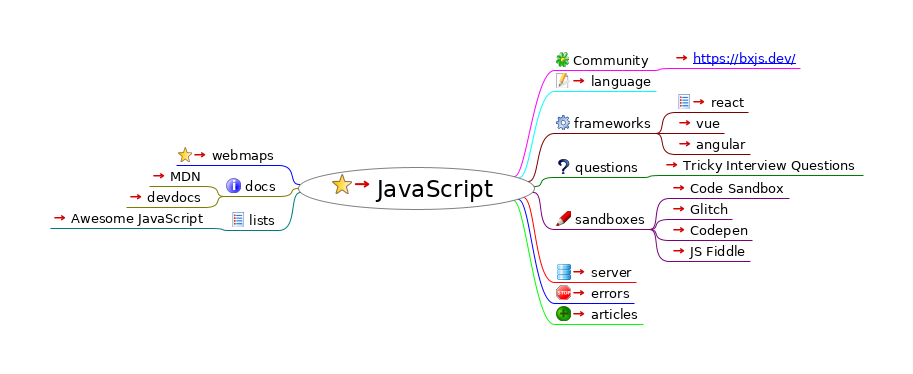
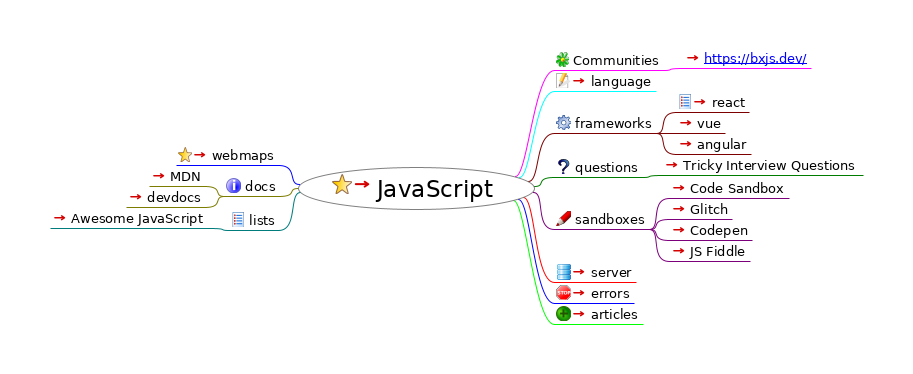
add cli tools

diff --git a/index.html b/index.html
@@ -1,5 +1,5 @@
 <?xml version="1.0" encoding="UTF-8"?><!DOCTYPE html PUBLIC "-//W3C//DTD XHTML 1.1//EN" "http://www.w3.org/TR/xhtml11/DTD/xhtml11.dtd">
-<html xmlns="http://www.w3.org/1999/xhtml"><meta http-equiv="Content-Type" content="text/html; charset=UTF-8" /><!--This file has been created with processhtml.sh--><head><title>JavaScript</title><link rel="stylesheet" href="index.html_files/freeplane2html.css" type="text/css" /><meta name="generator" content="Freeplane-XSL Stylesheet (see: http://freeplane-xsl.dev.slash-me.net/ for details)" /><script type="text/javascript" src="index.html_files/freeplane2html.js"> 
+<html xmlns="http://www.w3.org/1999/xhtml"><meta http-equiv="Content-Type" content="text/html; charset=UTF-8" /><!--This file has been created with freeplane2html.xsl--><head><title>JavaScript</title><link rel="stylesheet" href="index.html_files/freeplane2html.css" type="text/css" /><meta name="generator" content="Freeplane-XSL Stylesheet (see: http://freeplane-xsl.dev.slash-me.net/ for details)" /><script type="text/javascript" src="index.html_files/freeplane2html.js"> 
 	</script><script type="text/javascript"><!--
           
                function toggle(id)
@@ -23,33 +23,33 @@
                    };
                };
           
-          --></script></head><body><h1>JavaScript</h1><div style="width:96%;  padding:2%;  margin-bottom:10px;  border: 0px;  text-align:center;  vertical-align:center;"><img src="index.html_files/image.png" style="margin-bottom:10px; &#9;border: 0px; &#9;text-align:center; &#9;vertical-align:center;" alt="Imagemap" usemap="#fm_imagemap" /></div><map name="fm_imagemap" id="fm_imagemap"><area shape="rect" href="../tech/index.html" alt="JavaScript" title="JavaScript" coords="298,167,535,210" />
-<area shape="rect" href="https://github.com/solidpayorg/webmaps/" alt="webmaps" title="webmaps" coords="176,147,279,165" />
+          --></script></head><body><h1>JavaScript</h1><div style="width:96%;  padding:2%;  margin-bottom:10px;  border: 0px;  text-align:center;  vertical-align:center;"><img src="index.html_files/image.png" style="margin-bottom:10px; &#9;border: 0px; &#9;text-align:center; &#9;vertical-align:center;" alt="Imagemap" usemap="#fm_imagemap" /></div><map name="fm_imagemap" id="fm_imagemap"><area shape="rect" href="#FMID_110073400FM" alt="JavaScript" title="JavaScript" coords="298,167,535,210" />
+<area shape="rect" href="#FMID_634574866FM" alt="webmaps" title="webmaps" coords="176,147,279,165" />
 <area shape="rect" href="#FMID_1425964050FM" alt="docs" title="docs" coords="224,178,279,196" />
-<area shape="rect" href="https://developer.mozilla.org/en-US/docs/Web/JavaScript" alt="MDN" title="MDN" coords="149,168,205,186" />
-<area shape="rect" href="https://devdocs.io/javascript/" alt="devdocs" title="devdocs" coords="126,189,205,207" />
+<area shape="rect" href="#FMID_773205118FM" alt="MDN" title="MDN" coords="149,168,205,186" />
+<area shape="rect" href="#FMID_83129282FM" alt="devdocs" title="devdocs" coords="126,189,205,207" />
 <area shape="rect" href="#FMID_829378880FM" alt="lists" title="lists" coords="229,212,279,230" />
-<area shape="rect" href="https://github.com/sorrycc/awesome-javascript" alt="Awesome JavaScript" title="Awesome JavaScript" coords="50,210,210,228" />
-<area shape="rect" href="#FMID_849215328FM" alt="Community" title="Community" coords="554,52,653,70" />
-<area shape="rect" href="https://bxjs.dev/" alt="https://bxjs.dev/" title="https://bxjs.dev/" coords="672,50,800,68" />
-<area shape="rect" href="language.html" alt="language" title="language" coords="554,73,656,91" />
-<area shape="rect" href="#FMID_153818301FM" alt="frameworks" title="frameworks" coords="554,115,656,133" />
-<area shape="rect" href="react/index.html" alt="react" title="react" coords="675,94,748,112" />
-<area shape="rect" href="https://vuejs.org/" alt="vue" title="vue" coords="675,115,724,133" />
-<area shape="rect" href="https://angular.io/" alt="angular" title="angular" coords="675,136,750,154" />
+<area shape="rect" href="#FMID_157748484FM" alt="Awesome JavaScript" title="Awesome JavaScript" coords="50,210,210,228" />
+<area shape="rect" href="#FMID_849215328FM" alt="Communities" title="Communities" coords="554,52,664,70" />
+<area shape="rect" href="#FMID_1384859362FM" alt="https://bxjs.dev/" title="https://bxjs.dev/" coords="683,50,811,68" />
+<area shape="rect" href="#FMID_1566689685FM" alt="language" title="language" coords="554,73,656,91" />
+<area shape="rect" href="#FMID_153818301FM" alt="frameworks" title="frameworks" coords="554,115,657,133" />
+<area shape="rect" href="#FMID_921980201FM" alt="react" title="react" coords="676,94,749,112" />
+<area shape="rect" href="#FMID_850712897FM" alt="vue" title="vue" coords="676,115,725,133" />
+<area shape="rect" href="#FMID_101804111FM" alt="angular" title="angular" coords="676,136,751,154" />
 <area shape="rect" href="#FMID_1450636763FM" alt="questions" title="questions" coords="554,159,643,177" />
-<area shape="rect" href="https://dmitripavlutin.com/simple-but-tricky-javascript-interview-questions/" alt="Tricky Interview Questions" title="Tricky Interview Questions" coords="662,157,863,175" />
+<area shape="rect" href="#FMID_83102648FM" alt="Tricky Interview Questions" title="Tricky Interview Questions" coords="662,157,863,175" />
 <area shape="rect" href="#FMID_1460537766FM" alt="sandboxes" title="sandboxes" coords="554,211,650,229" />
-<area shape="rect" href="https://codesandbox.io/" alt="Code Sandbox" title="Code Sandbox" coords="669,180,789,198" />
-<area shape="rect" href="https://glitch.com/" alt="Glitch" title="Glitch" coords="669,201,732,219" />
-<area shape="rect" href="https://codepen.io/" alt="Codepen" title="Codepen" coords="669,222,752,240" />
-<area shape="rect" href="https://jsfiddle.net/" alt="JS Fiddle" title="JS Fiddle" coords="669,243,750,261" />
-<area shape="rect" href="server/index.html" alt="server" title="server" coords="554,264,636,282" />
-<area shape="rect" href="https://blog.appsignal.com/2019/10/17/javascript-errors-an-exceptional-history.html" alt="errors" title="errors" coords="554,285,634,303" />
-<area shape="rect" href="articles/index.html" alt="articles" title="articles" coords="554,306,643,324" />
+<area shape="rect" href="#FMID_899668548FM" alt="Code Sandbox" title="Code Sandbox" coords="669,180,789,198" />
+<area shape="rect" href="#FMID_1286093091FM" alt="Glitch" title="Glitch" coords="669,201,732,219" />
+<area shape="rect" href="#FMID_942460316FM" alt="Codepen" title="Codepen" coords="669,222,752,240" />
+<area shape="rect" href="#FMID_1150601009FM" alt="JS Fiddle" title="JS Fiddle" coords="669,243,750,261" />
+<area shape="rect" href="#FMID_1516168898FM" alt="server" title="server" coords="554,264,636,282" />
+<area shape="rect" href="#FMID_437549538FM" alt="errors" title="errors" coords="554,285,634,303" />
+<area shape="rect" href="#FMID_51150335FM" alt="articles" title="articles" coords="554,306,643,324" />
 </map>
 
-<div class="node"><img src="index.html_files/hide.png" class="hideshow" alt="hide" onClick="toggle(&quot;N65543&quot;)" id="imgN65543" /><img src="index.html_files/icons/bookmark.svg" alt="bookmark" /> <a id="FMID_110073400FM" /><div class="nodecontent" style="color:#000000;font-size:150%;"><a href="../tech/index.html">JavaScript</a> <a href="../tech/index.html"><img src="index.html_files/ilink.png" alt="User Link" style="border-width:0" /></a></div><div class="content" id="N65543"><div class="node"><img src="index.html_files/leaf.png" class="hideshow" alt="leaf" /><img src="index.html_files/icons/bookmark.svg" alt="bookmark" /> <a id="FMID_634574866FM" /><div class="nodecontent" style="color:#000000;font-size:83%;"><a href="https://github.com/solidpayorg/webmaps/">webmaps</a> <a href="https://github.com/solidpayorg/webmaps/"><img src="index.html_files/ilink.png" alt="User Link" style="border-width:0" /></a></div></div><div class="node"><img src="index.html_files/hide.png" class="hideshow" alt="hide" onClick="toggle(&quot;N66488&quot;)" id="imgN66488" /><img src="index.html_files/icons/info.svg" alt="info" /> <a id="FMID_1425964050FM" /><div class="nodecontent" style="color:#000000;font-size:83%;">docs</div><div class="content" id="N66488"><div class="node"><img src="index.html_files/leaf.png" class="hideshow" alt="leaf" /><a id="FMID_773205118FM" /><div class="nodecontent" style="color:#000000;font-size:83%;"><a href="https://developer.mozilla.org/en-US/docs/Web/JavaScript">MDN</a> <a href="https://developer.mozilla.org/en-US/docs/Web/JavaScript"><img src="index.html_files/ilink.png" alt="User Link" style="border-width:0" /></a></div></div><div class="node"><img src="index.html_files/leaf.png" class="hideshow" alt="leaf" /><a id="FMID_83129282FM" /><div class="nodecontent" style="color:#000000;font-size:83%;"><a href="https://devdocs.io/javascript/">devdocs</a> <a href="https://devdocs.io/javascript/"><img src="index.html_files/ilink.png" alt="User Link" style="border-width:0" /></a></div></div></div></div><div class="node"><img src="index.html_files/hide.png" class="hideshow" alt="hide" onClick="toggle(&quot;N66604&quot;)" id="imgN66604" /><img src="index.html_files/icons/list.svg" alt="list" /> <a id="FMID_829378880FM" /><div class="nodecontent" style="color:#000000;font-size:83%;">lists</div><div class="content" id="N66604"><div class="node"><img src="index.html_files/leaf.png" class="hideshow" alt="leaf" /><a id="FMID_157748484FM" /><div class="nodecontent" style="color:#000000;font-size:83%;"><a href="https://github.com/sorrycc/awesome-javascript">Awesome JavaScript</a> <a href="https://github.com/sorrycc/awesome-javascript"><img src="index.html_files/ilink.png" alt="User Link" style="border-width:0" /></a></div></div></div></div><div class="node"><img src="index.html_files/hide.png" class="hideshow" alt="hide" onClick="toggle(&quot;N66683&quot;)" id="imgN66683" /><img src="index.html_files/icons/licq.svg" alt="licq" /> <a id="FMID_849215328FM" /><div class="nodecontent" style="color:#000000;font-size:83%;">Community</div><div class="content" id="N66683"><div class="node"><img src="index.html_files/leaf.png" class="hideshow" alt="leaf" /><a id="FMID_1384859362FM" /><div class="nodecontent" style="color:#000000;font-size:83%;"><a href="https://bxjs.dev/">
+<div class="node"><img src="index.html_files/hide.png" class="hideshow" alt="hide" onClick="toggle(&quot;N65543&quot;)" id="imgN65543" /><img src="index.html_files/icons/bookmark.png" alt="bookmark" /> <a id="FMID_110073400FM" /><div class="nodecontent" style="color:#000000;font-size:150%;"><a href="../tech/index.mm">JavaScript</a> <a href="../tech/index.mm"><img src="index.html_files/ilink.png" alt="User Link" style="border-width:0" /></a></div><div class="content" id="N65543"><div class="node"><img src="index.html_files/leaf.png" class="hideshow" alt="leaf" /><img src="index.html_files/icons/bookmark.png" alt="bookmark" /> <a id="FMID_634574866FM" /><div class="nodecontent" style="color:#000000;font-size:83%;"><a href="https://github.com/solidpayorg/webmaps/">webmaps</a> <a href="https://github.com/solidpayorg/webmaps/"><img src="index.html_files/ilink.png" alt="User Link" style="border-width:0" /></a></div></div><div class="node"><img src="index.html_files/hide.png" class="hideshow" alt="hide" onClick="toggle(&quot;N66488&quot;)" id="imgN66488" /><img src="index.html_files/icons/info.png" alt="info" /> <a id="FMID_1425964050FM" /><div class="nodecontent" style="color:#000000;font-size:83%;">docs</div><div class="content" id="N66488"><div class="node"><img src="index.html_files/leaf.png" class="hideshow" alt="leaf" /><a id="FMID_773205118FM" /><div class="nodecontent" style="color:#000000;font-size:83%;"><a href="https://developer.mozilla.org/en-US/docs/Web/JavaScript">MDN</a> <a href="https://developer.mozilla.org/en-US/docs/Web/JavaScript"><img src="index.html_files/ilink.png" alt="User Link" style="border-width:0" /></a></div></div><div class="node"><img src="index.html_files/leaf.png" class="hideshow" alt="leaf" /><a id="FMID_83129282FM" /><div class="nodecontent" style="color:#000000;font-size:83%;"><a href="https://devdocs.io/javascript/">devdocs</a> <a href="https://devdocs.io/javascript/"><img src="index.html_files/ilink.png" alt="User Link" style="border-width:0" /></a></div></div></div></div><div class="node"><img src="index.html_files/hide.png" class="hideshow" alt="hide" onClick="toggle(&quot;N66604&quot;)" id="imgN66604" /><img src="index.html_files/icons/list.png" alt="list" /> <a id="FMID_829378880FM" /><div class="nodecontent" style="color:#000000;font-size:83%;">lists</div><div class="content" id="N66604"><div class="node"><img src="index.html_files/leaf.png" class="hideshow" alt="leaf" /><a id="FMID_157748484FM" /><div class="nodecontent" style="color:#000000;font-size:83%;"><a href="https://github.com/sorrycc/awesome-javascript">Awesome JavaScript</a> <a href="https://github.com/sorrycc/awesome-javascript"><img src="index.html_files/ilink.png" alt="User Link" style="border-width:0" /></a></div></div></div></div><div class="node"><img src="index.html_files/hide.png" class="hideshow" alt="hide" onClick="toggle(&quot;N66683&quot;)" id="imgN66683" /><img src="index.html_files/icons/licq.png" alt="licq" /> <a id="FMID_849215328FM" /><div class="nodecontent" style="color:#000000;font-size:83%;">Communities</div><div class="content" id="N66683"><div class="node"><img src="index.html_files/leaf.png" class="hideshow" alt="leaf" /><a id="FMID_1384859362FM" /><div class="nodecontent" style="color:#000000;font-size:83%;"><a href="https://bxjs.dev/">
     <a http-equiv="content-type" content="text/html; charset=utf-8" href="https://bxjs.dev/">https://bxjs.dev/</a>
-  </a> <a href="https://bxjs.dev/"><img src="index.html_files/ilink.png" alt="User Link" style="border-width:0" /></a></div></div></div></div><div class="node"><img src="index.html_files/leaf.png" class="hideshow" alt="leaf" /><img src="index.html_files/icons/edit.svg" alt="edit" /> <a id="FMID_1566689685FM" /><div class="nodecontent" style="color:#000000;font-size:83%;"><a href="language.html">language</a> <a href="language.html"><img src="index.html_files/ilink.png" alt="User Link" style="border-width:0" /></a></div></div><div class="node"><img src="index.html_files/hide.png" class="hideshow" alt="hide" onClick="toggle(&quot;N66823&quot;)" id="imgN66823" /><img src="index.html_files/icons/executable.svg" alt="executable" /> <a id="FMID_153818301FM" /><div class="nodecontent" style="color:#000000;font-size:83%;">frameworks</div><div class="content" id="N66823"><div class="node"><img src="index.html_files/leaf.png" class="hideshow" alt="leaf" /><img src="index.html_files/icons/list.svg" alt="list" /> <a id="FMID_921980201FM" /><div class="nodecontent" style="color:#000000;font-size:83%;"><a href="react/index.html">react</a> <a href="react/index.html"><img src="index.html_files/ilink.png" alt="User Link" style="border-width:0" /></a></div></div><div class="node"><img src="index.html_files/leaf.png" class="hideshow" alt="leaf" /><a id="FMID_850712897FM" /><div class="nodecontent" style="color:#000000;font-size:83%;"><a href="https://vuejs.org/">vue</a> <a href="https://vuejs.org/"><img src="index.html_files/ilink.png" alt="User Link" style="border-width:0" /></a></div></div><div class="node"><img src="index.html_files/leaf.png" class="hideshow" alt="leaf" /><a id="FMID_101804111FM" /><div class="nodecontent" style="color:#000000;font-size:83%;"><a href="https://angular.io/">angular</a> <a href="https://angular.io/"><img src="index.html_files/ilink.png" alt="User Link" style="border-width:0" /></a></div></div></div></div><div class="node"><img src="index.html_files/hide.png" class="hideshow" alt="hide" onClick="toggle(&quot;N66981&quot;)" id="imgN66981" /><img src="index.html_files/icons/help.svg" alt="help" /> <a id="FMID_1450636763FM" /><div class="nodecontent" style="color:#000000;font-size:83%;">questions</div><div class="content" id="N66981"><div class="node"><img src="index.html_files/leaf.png" class="hideshow" alt="leaf" /><a id="FMID_83102648FM" /><div class="nodecontent" style="color:#000000;font-size:83%;"><a href="https://dmitripavlutin.com/simple-but-tricky-javascript-interview-questions/">Tricky Interview Questions</a> <a href="https://dmitripavlutin.com/simple-but-tricky-javascript-interview-questions/"><img src="index.html_files/ilink.png" alt="User Link" style="border-width:0" /></a></div></div></div></div><div class="node"><img src="index.html_files/hide.png" class="hideshow" alt="hide" onClick="toggle(&quot;N67060&quot;)" id="imgN67060" /><img src="index.html_files/icons/pencil.svg" alt="pencil" /> <a id="FMID_1460537766FM" /><div class="nodecontent" style="color:#000000;font-size:83%;">sandboxes</div><div class="content" id="N67060"><div class="node"><img src="index.html_files/leaf.png" class="hideshow" alt="leaf" /><a id="FMID_899668548FM" /><div class="nodecontent" style="color:#000000;font-size:83%;"><a href="https://codesandbox.io/">Code Sandbox</a> <a href="https://codesandbox.io/"><img src="index.html_files/ilink.png" alt="User Link" style="border-width:0" /></a></div></div><div class="node"><img src="index.html_files/leaf.png" class="hideshow" alt="leaf" /><a id="FMID_1286093091FM" /><div class="nodecontent" style="color:#000000;font-size:83%;"><a href="https://glitch.com/">Glitch</a> <a href="https://glitch.com/"><img src="index.html_files/ilink.png" alt="User Link" style="border-width:0" /></a></div></div><div class="node"><img src="index.html_files/leaf.png" class="hideshow" alt="leaf" /><a id="FMID_942460316FM" /><div class="nodecontent" style="color:#000000;font-size:83%;"><a href="https://codepen.io/">Codepen</a> <a href="https://codepen.io/"><img src="index.html_files/ilink.png" alt="User Link" style="border-width:0" /></a></div></div><div class="node"><img src="index.html_files/leaf.png" class="hideshow" alt="leaf" /><a id="FMID_1150601009FM" /><div class="nodecontent" style="color:#000000;font-size:83%;"><a href="https://jsfiddle.net/">JS Fiddle</a> <a href="https://jsfiddle.net/"><img src="index.html_files/ilink.png" alt="User Link" style="border-width:0" /></a></div></div></div></div><div class="node"><img src="index.html_files/leaf.png" class="hideshow" alt="leaf" /><img src="index.html_files/icons/16x16-free-application-icons/png/16x16/Database.png" alt="16x16-free-application-icons/png/16x16/Database" /> <a id="FMID_1516168898FM" /><div class="nodecontent" style="color:#000000;font-size:83%;"><a href="server/index.html">server</a> <a href="server/index.html"><img src="index.html_files/ilink.png" alt="User Link" style="border-width:0" /></a></div></div><div class="node"><img src="index.html_files/leaf.png" class="hideshow" alt="leaf" /><img src="index.html_files/icons/stop-sign.svg" alt="stop-sign" /> <a id="FMID_437549538FM" /><div class="nodecontent" style="color:#000000;font-size:83%;"><a href="https://blog.appsignal.com/2019/10/17/javascript-errors-an-exceptional-history.html">errors</a> <a href="https://blog.appsignal.com/2019/10/17/javascript-errors-an-exceptional-history.html"><img src="index.html_files/ilink.png" alt="User Link" style="border-width:0" /></a></div></div><div class="node"><img src="index.html_files/leaf.png" class="hideshow" alt="leaf" /><img src="index.html_files/icons/very_positive.svg" alt="very_positive" /> <a id="FMID_51150335FM" /><div class="nodecontent" style="color:#000000;font-size:83%;"><a href="articles/index.html">articles</a> <a href="articles/index.html"><img src="index.html_files/ilink.png" alt="User Link" style="border-width:0" /></a></div></div></div></div>
+  </a> <a href="https://bxjs.dev/"><img src="index.html_files/ilink.png" alt="User Link" style="border-width:0" /></a></div></div></div></div><div class="node"><img src="index.html_files/leaf.png" class="hideshow" alt="leaf" /><img src="index.html_files/icons/edit.png" alt="edit" /> <a id="FMID_1566689685FM" /><div class="nodecontent" style="color:#000000;font-size:83%;"><a href="language.mm">language</a> <a href="language.mm"><img src="index.html_files/ilink.png" alt="User Link" style="border-width:0" /></a></div></div><div class="node"><img src="index.html_files/hide.png" class="hideshow" alt="hide" onClick="toggle(&quot;N66823&quot;)" id="imgN66823" /><img src="index.html_files/icons/executable.png" alt="executable" /> <a id="FMID_153818301FM" /><div class="nodecontent" style="color:#000000;font-size:83%;">frameworks</div><div class="content" id="N66823"><div class="node"><img src="index.html_files/leaf.png" class="hideshow" alt="leaf" /><img src="index.html_files/icons/list.png" alt="list" /> <a id="FMID_921980201FM" /><div class="nodecontent" style="color:#000000;font-size:83%;"><a href="react/index.mm">react</a> <a href="react/index.mm"><img src="index.html_files/ilink.png" alt="User Link" style="border-width:0" /></a></div></div><div class="node"><img src="index.html_files/leaf.png" class="hideshow" alt="leaf" /><a id="FMID_850712897FM" /><div class="nodecontent" style="color:#000000;font-size:83%;"><a href="https://vuejs.org/">vue</a> <a href="https://vuejs.org/"><img src="index.html_files/ilink.png" alt="User Link" style="border-width:0" /></a></div></div><div class="node"><img src="index.html_files/leaf.png" class="hideshow" alt="leaf" /><a id="FMID_101804111FM" /><div class="nodecontent" style="color:#000000;font-size:83%;"><a href="https://angular.io/">angular</a> <a href="https://angular.io/"><img src="index.html_files/ilink.png" alt="User Link" style="border-width:0" /></a></div></div></div></div><div class="node"><img src="index.html_files/hide.png" class="hideshow" alt="hide" onClick="toggle(&quot;N66981&quot;)" id="imgN66981" /><img src="index.html_files/icons/help.png" alt="help" /> <a id="FMID_1450636763FM" /><div class="nodecontent" style="color:#000000;font-size:83%;">questions</div><div class="content" id="N66981"><div class="node"><img src="index.html_files/leaf.png" class="hideshow" alt="leaf" /><a id="FMID_83102648FM" /><div class="nodecontent" style="color:#000000;font-size:83%;"><a href="https://dmitripavlutin.com/simple-but-tricky-javascript-interview-questions/">Tricky Interview Questions</a> <a href="https://dmitripavlutin.com/simple-but-tricky-javascript-interview-questions/"><img src="index.html_files/ilink.png" alt="User Link" style="border-width:0" /></a></div></div></div></div><div class="node"><img src="index.html_files/hide.png" class="hideshow" alt="hide" onClick="toggle(&quot;N67060&quot;)" id="imgN67060" /><img src="index.html_files/icons/pencil.png" alt="pencil" /> <a id="FMID_1460537766FM" /><div class="nodecontent" style="color:#000000;font-size:83%;">sandboxes</div><div class="content" id="N67060"><div class="node"><img src="index.html_files/leaf.png" class="hideshow" alt="leaf" /><a id="FMID_899668548FM" /><div class="nodecontent" style="color:#000000;font-size:83%;"><a href="https://codesandbox.io/">Code Sandbox</a> <a href="https://codesandbox.io/"><img src="index.html_files/ilink.png" alt="User Link" style="border-width:0" /></a></div></div><div class="node"><img src="index.html_files/leaf.png" class="hideshow" alt="leaf" /><a id="FMID_1286093091FM" /><div class="nodecontent" style="color:#000000;font-size:83%;"><a href="https://glitch.com/">Glitch</a> <a href="https://glitch.com/"><img src="index.html_files/ilink.png" alt="User Link" style="border-width:0" /></a></div></div><div class="node"><img src="index.html_files/leaf.png" class="hideshow" alt="leaf" /><a id="FMID_942460316FM" /><div class="nodecontent" style="color:#000000;font-size:83%;"><a href="https://codepen.io/">Codepen</a> <a href="https://codepen.io/"><img src="index.html_files/ilink.png" alt="User Link" style="border-width:0" /></a></div></div><div class="node"><img src="index.html_files/leaf.png" class="hideshow" alt="leaf" /><a id="FMID_1150601009FM" /><div class="nodecontent" style="color:#000000;font-size:83%;"><a href="https://jsfiddle.net/">JS Fiddle</a> <a href="https://jsfiddle.net/"><img src="index.html_files/ilink.png" alt="User Link" style="border-width:0" /></a></div></div></div></div><div class="node"><img src="index.html_files/leaf.png" class="hideshow" alt="leaf" /><img src="index.html_files/icons/16x16-free-application-icons/png/16x16/Database.png" alt="16x16-free-application-icons/png/16x16/Database" /> <a id="FMID_1516168898FM" /><div class="nodecontent" style="color:#000000;font-size:83%;"><a href="server/index.mm">server</a> <a href="server/index.mm"><img src="index.html_files/ilink.png" alt="User Link" style="border-width:0" /></a></div></div><div class="node"><img src="index.html_files/leaf.png" class="hideshow" alt="leaf" /><img src="index.html_files/icons/stop-sign.png" alt="stop-sign" /> <a id="FMID_437549538FM" /><div class="nodecontent" style="color:#000000;font-size:83%;"><a href="https://blog.appsignal.com/2019/10/17/javascript-errors-an-exceptional-history.html">errors</a> <a href="https://blog.appsignal.com/2019/10/17/javascript-errors-an-exceptional-history.html"><img src="index.html_files/ilink.png" alt="User Link" style="border-width:0" /></a></div></div><div class="node"><img src="index.html_files/leaf.png" class="hideshow" alt="leaf" /><img src="index.html_files/icons/very_positive.png" alt="very_positive" /> <a id="FMID_51150335FM" /><div class="nodecontent" style="color:#000000;font-size:83%;"><a href="articles/index.mm">articles</a> <a href="articles/index.mm"><img src="index.html_files/ilink.png" alt="User Link" style="border-width:0" /></a></div></div></div></div>
 </body></html>

diff --git a/server/node/index.html b/server/node/index.html
@@ -23,17 +23,25 @@
                    };
                };
           
-          --></script></head><body><h1>node</h1><div style="width:96%;  padding:2%;  margin-bottom:10px;  border: 0px;  text-align:center;  vertical-align:center;"><img src="index.html_files/image.png" style="margin-bottom:10px; &#9;border: 0px; &#9;text-align:center; &#9;vertical-align:center;" alt="Imagemap" usemap="#fm_imagemap" /></div><map name="fm_imagemap" id="fm_imagemap"><area shape="rect" href="../index.html" alt="node" title="node" coords="304,50,456,93" />
-<area shape="rect" href="#FMID_1425964050FM" alt="docs" title="docs" coords="230,52,285,70" />
-<area shape="rect" href="https://nodejs.org/en/" alt="https://nodejs.org/en/ " title="https://nodejs.org/en/ " coords="50,50,211,68" />
-<area shape="rect" href="#FMID_829378880FM" alt="lists" title="lists" coords="235,73,285,91" />
-<area shape="rect" href="#FMID_943883803FM" alt="npm" title="npm" coords="475,62,509,80" />
-<area shape="rect" href="https://docs.npmjs.com/files/package.json" alt="https://docs.npmjs.com/files/package.jso ..." title="https://docs.npmjs.com/files/package.jso ..." coords="528,60,825,78" />
+          --></script></head><body><h1>node</h1><div style="width:96%;  padding:2%;  margin-bottom:10px;  border: 0px;  text-align:center;  vertical-align:center;"><img src="index.html_files/image.png" style="margin-bottom:10px; &#9;border: 0px; &#9;text-align:center; &#9;vertical-align:center;" alt="Imagemap" usemap="#fm_imagemap" /></div><map name="fm_imagemap" id="fm_imagemap"><area shape="rect" href="../index.html" alt="node" title="node" coords="304,174,456,217" />
+<area shape="rect" href="#FMID_1425964050FM" alt="docs" title="docs" coords="230,176,285,194" />
+<area shape="rect" href="https://nodejs.org/en/" alt="https://nodejs.org/en/" title="https://nodejs.org/en/" coords="50,174,211,192" />
+<area shape="rect" href="#FMID_829378880FM" alt="lists" title="lists" coords="235,197,285,215" />
+<area shape="rect" href="#FMID_943883803FM" alt="npm" title="npm" coords="475,52,509,70" />
+<area shape="rect" href="https://docs.npmjs.com/files/package.json" alt="https://docs.npmjs.com/files/package.jso ..." title="https://docs.npmjs.com/files/package.jso ..." coords="528,50,825,68" />
+<area shape="rect" href="#FMID_254723387FM" alt="cli" title="cli" coords="475,197,494,215" />
+<area shape="rect" href="https://www.npmjs.com/package/yargs" alt="yargs" title="yargs" coords="513,73,574,91" />
+<area shape="rect" href="https://www.npmjs.com/package/minimist" alt="minimist" title="minimist" coords="513,208,595,226" />
+<area shape="rect" href="#FMID_1190547862FM" alt="var argv = require('minimist')(process.a ..." title="var argv = require('minimist')(process.a ..." coords="614,94,962,129" />
+<area shape="rect" href="#FMID_1696017079FM" alt="node example/parse.js -a beep -b boop
+{  ..." title="node example/parse.js -a beep -b boop
+{  ..." coords="614,132,873,167" />
+<area shape="rect" href="#FMID_143113865FM" alt="node example/parse.js -x 3 -y 4 -n5 -abc ..." title="node example/parse.js -x 3 -y 4 -n5 -abc ..." coords="614,170,992,341" />
 </map>
 
 <div class="node"><img src="index.html_files/hide.png" class="hideshow" alt="hide" onClick="toggle(&quot;N65543&quot;)" id="imgN65543" /><img src="index.html_files/icons/bookmark.svg" alt="bookmark" /> <a id="FMID_110073400FM" /><div class="nodecontent" style="color:#000000;font-size:150%;"><a href="../index.html">node</a> <a href="../index.html"><img src="index.html_files/ilink.png" alt="User Link" style="border-width:0" /></a></div><div class="content" id="N65543"><div class="node"><img src="index.html_files/hide.png" class="hideshow" alt="hide" onClick="toggle(&quot;N66445&quot;)" id="imgN66445" /><img src="index.html_files/icons/info.svg" alt="info" /> <a id="FMID_1425964050FM" /><div class="nodecontent" style="color:#000000;font-size:83%;">docs</div><div class="content" id="N66445"><div class="node"><img src="index.html_files/leaf.png" class="hideshow" alt="leaf" /><a id="FMID_273339059FM" /><div class="nodecontent" style="color:#000000;font-size:83%;"><a href="https://nodejs.org/en/">
-    <a http-equiv="content-type" content="text/html; charset=utf-8" href="https://nodejs.org/en/">https://nodejs.org/en/</a> 
+    <a http-equiv="content-type" content="text/html; charset=utf-8" href="https://nodejs.org/en/">https://nodejs.org/en/</a>
   </a> <a href="https://nodejs.org/en/"><img src="index.html_files/ilink.png" alt="User Link" style="border-width:0" /></a></div></div></div></div><div class="node"><img src="index.html_files/leaf.png" class="hideshow" alt="leaf" /><img src="index.html_files/icons/list.svg" alt="list" /> <a id="FMID_829378880FM" /><div class="nodecontent" style="color:#000000;font-size:83%;">lists</div></div><div class="node"><img src="index.html_files/hide.png" class="hideshow" alt="hide" onClick="toggle(&quot;N66584&quot;)" id="imgN66584" /><a id="FMID_943883803FM" /><div class="nodecontent" style="color:#000000;font-size:83%;">npm</div><div class="content" id="N66584"><div class="node"><img src="index.html_files/leaf.png" class="hideshow" alt="leaf" /><a id="FMID_954942221FM" /><div class="nodecontent" style="color:#000000;font-size:83%;"><a href="https://docs.npmjs.com/files/package.json">
-    <a http-equiv="content-type" content="text/html; charset=utf-8" href="https://docs.npmjs.com/files/package.json">https://docs.npmjs.com/files/package.json</a> 
-  </a> <a href="https://docs.npmjs.com/files/package.json"><img src="index.html_files/ilink.png" alt="User Link" style="border-width:0" /></a></div></div></div></div></div></div>
+    <a http-equiv="content-type" content="text/html; charset=utf-8" href="https://docs.npmjs.com/files/package.json">https://docs.npmjs.com/files/package.json</a>
+  </a> <a href="https://docs.npmjs.com/files/package.json"><img src="index.html_files/ilink.png" alt="User Link" style="border-width:0" /></a></div></div></div></div><div class="node"><img src="index.html_files/hide.png" class="hideshow" alt="hide" onClick="toggle(&quot;N66676&quot;)" id="imgN66676" /><a id="FMID_254723387FM" /><div class="nodecontent" style="color:#000000;font-size:83%;">cli</div><div class="content" id="N66676"><div class="node"><img src="index.html_files/leaf.png" class="hideshow" alt="leaf" /><a id="FMID_947854242FM" /><div class="nodecontent" style="color:#000000;font-size:83%;"><a href="https://www.npmjs.com/package/yargs">yargs</a> <a href="https://www.npmjs.com/package/yargs"><img src="index.html_files/ilink.png" alt="User Link" style="border-width:0" /></a></div></div><div class="node"><img src="index.html_files/hide.png" class="hideshow" alt="hide" onClick="toggle(&quot;N66749&quot;)" id="imgN66749" /><a id="FMID_1959242244FM" /><div class="nodecontent" style="color:#000000;font-size:83%;"><a href="https://www.npmjs.com/package/minimist">minimist</a> <a href="https://www.npmjs.com/package/minimist"><img src="index.html_files/ilink.png" alt="User Link" style="border-width:0" /></a></div><div class="content" id="N66749"><div class="node"><img src="index.html_files/leaf.png" class="hideshow" alt="leaf" /><a id="FMID_1190547862FM" /><div class="nodecontent" style="color:#000000;font-size:83%;">var argv = require('minimist')(process.argv.slice(2));<br />console.dir(argv);</div></div><div class="node"><img src="index.html_files/leaf.png" class="hideshow" alt="leaf" /><a id="FMID_1696017079FM" /><div class="nodecontent" style="color:#000000;font-size:83%;">node example/parse.js -a beep -b boop<br />{ _: [], a: 'beep', b: 'boop' }</div></div><div class="node"><img src="index.html_files/leaf.png" class="hideshow" alt="leaf" /><a id="FMID_143113865FM" /><div class="nodecontent" style="color:#000000;font-size:83%;">node example/parse.js -x 3 -y 4 -n5 -abc --beep=boop foo bar baz<br />{ _: [ 'foo', 'bar', 'baz' ],<br />  x: 3,<br />  y: 4,<br />  n: 5,<br />  a: true,<br />  b: true,<br />  c: true,<br />  beep: 'boop' }</div></div></div></div></div></div></div></div>
 </body></html>

diff --git a/server/node/index.mm b/server/node/index.mm
@@ -64,7 +64,7 @@
 </stylenode>
 </map_styles>
 </hook>
-<hook NAME="AutomaticEdgeColor" COUNTER="13" RULE="ON_BRANCH_CREATION"/>
+<hook NAME="AutomaticEdgeColor" COUNTER="14" RULE="ON_BRANCH_CREATION"/>
 <node TEXT="docs" POSITION="left" ID="ID_1425964050" CREATED="1572497990298" MODIFIED="1572498279093">
 <icon BUILTIN="info"/>
 <edge COLOR="#7c7c00"/>
@@ -78,7 +78,6 @@
     <a http-equiv="content-type" content="text/html; charset=utf-8" href="https://nodejs.org/en/">https://nodejs.org/en/</a> 
   </body>
 </html>
-
 </richcontent>
 </node>
 </node>
@@ -98,8 +97,16 @@
     <a http-equiv="content-type" content="text/html; charset=utf-8" href="https://docs.npmjs.com/files/package.json">https://docs.npmjs.com/files/package.json</a> 
   </body>
 </html>
-
 </richcontent>
+</node>
+</node>
+<node TEXT="cli" POSITION="right" ID="ID_254723387" CREATED="1574676184865" MODIFIED="1574676186814">
+<edge COLOR="#00ff00"/>
+<node TEXT="yargs" ID="ID_947854242" CREATED="1574676188755" MODIFIED="1574676228056" LINK="https://www.npmjs.com/package/yargs"/>
+<node TEXT="minimist" ID="ID_1959242244" CREATED="1574676191279" MODIFIED="1574676211729" LINK="https://www.npmjs.com/package/minimist">
+<node TEXT="var argv = require(&apos;minimist&apos;)(process.argv.slice(2));&#xa;console.dir(argv);" ID="ID_1190547862" CREATED="1574676254118" MODIFIED="1574676255769"/>
+<node TEXT="node example/parse.js -a beep -b boop&#xa;{ _: [], a: &apos;beep&apos;, b: &apos;boop&apos; }" ID="ID_1696017079" CREATED="1574676282246" MODIFIED="1574676283779"/>
+<node TEXT="node example/parse.js -x 3 -y 4 -n5 -abc --beep=boop foo bar baz&#xa;{ _: [ &apos;foo&apos;, &apos;bar&apos;, &apos;baz&apos; ],&#xa;  x: 3,&#xa;  y: 4,&#xa;  n: 5,&#xa;  a: true,&#xa;  b: true,&#xa;  c: true,&#xa;  beep: &apos;boop&apos; }" ID="ID_143113865" CREATED="1574676290102" MODIFIED="1574676291542"/>
 </node>
 </node>
 </node>

diff --git a/index.mm b/index.mm
@@ -80,7 +80,7 @@
 <edge COLOR="#007c7c"/>
 <node TEXT="Awesome JavaScript" ID="ID_157748484" CREATED="1571361132464" MODIFIED="1572498017973" LINK="https://github.com/sorrycc/awesome-javascript"/>
 </node>
-<node TEXT="Community" POSITION="right" ID="ID_849215328" CREATED="1570476065863" MODIFIED="1572498262464">
+<node TEXT="Communities" POSITION="right" ID="ID_849215328" CREATED="1570476065863" MODIFIED="1574676159071">
 <icon BUILTIN="licq"/>
 <edge COLOR="#ff00ff"/>
 <node ID="ID_1384859362" CREATED="1570476124707" MODIFIED="1570476124707" LINK="https://bxjs.dev/"><richcontent TYPE="NODE">
